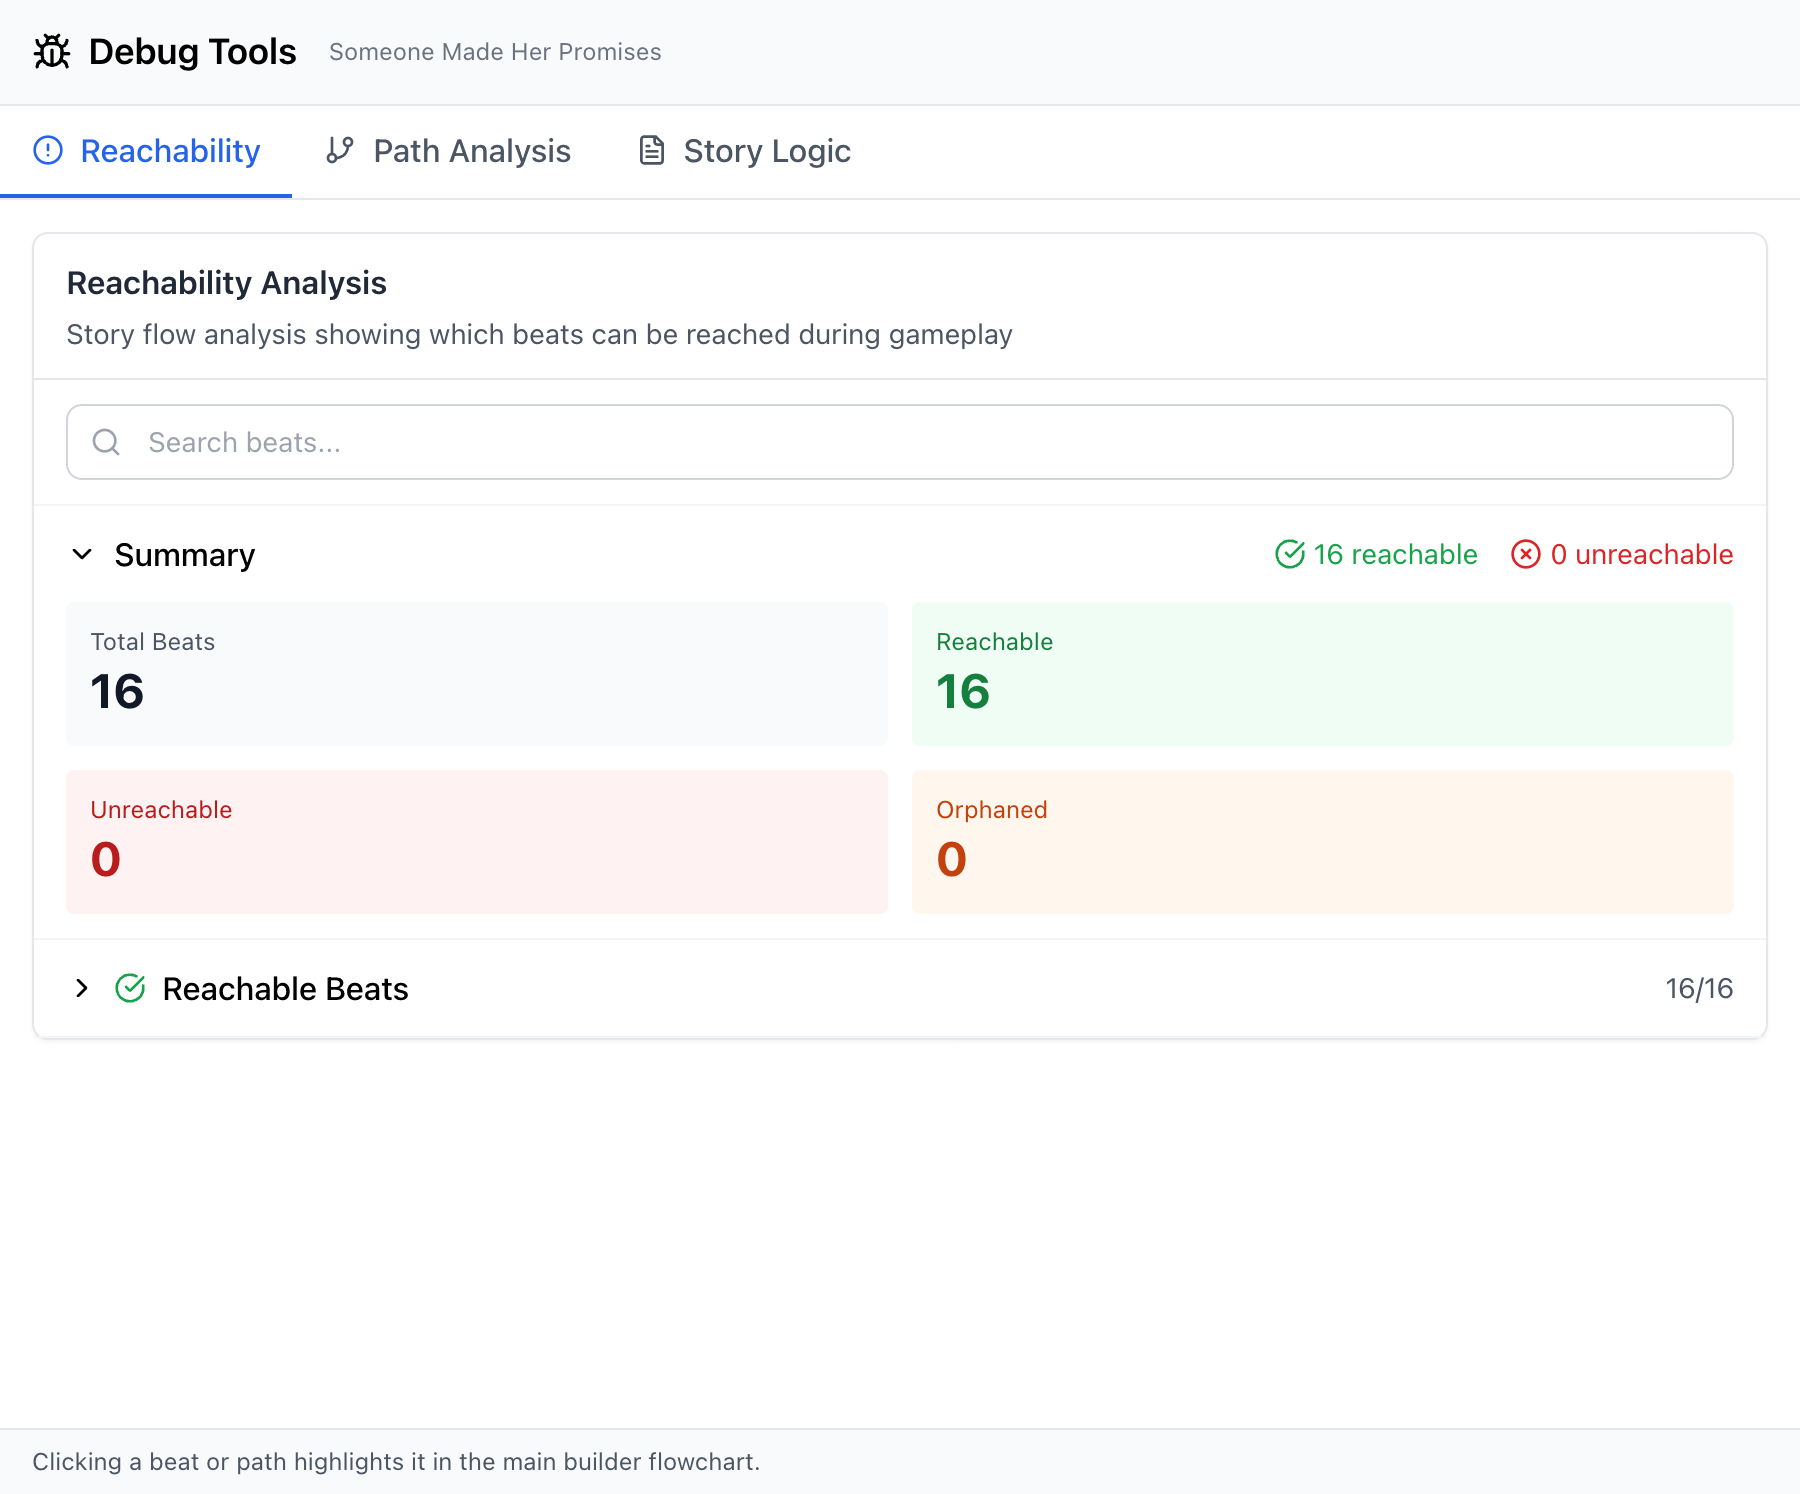
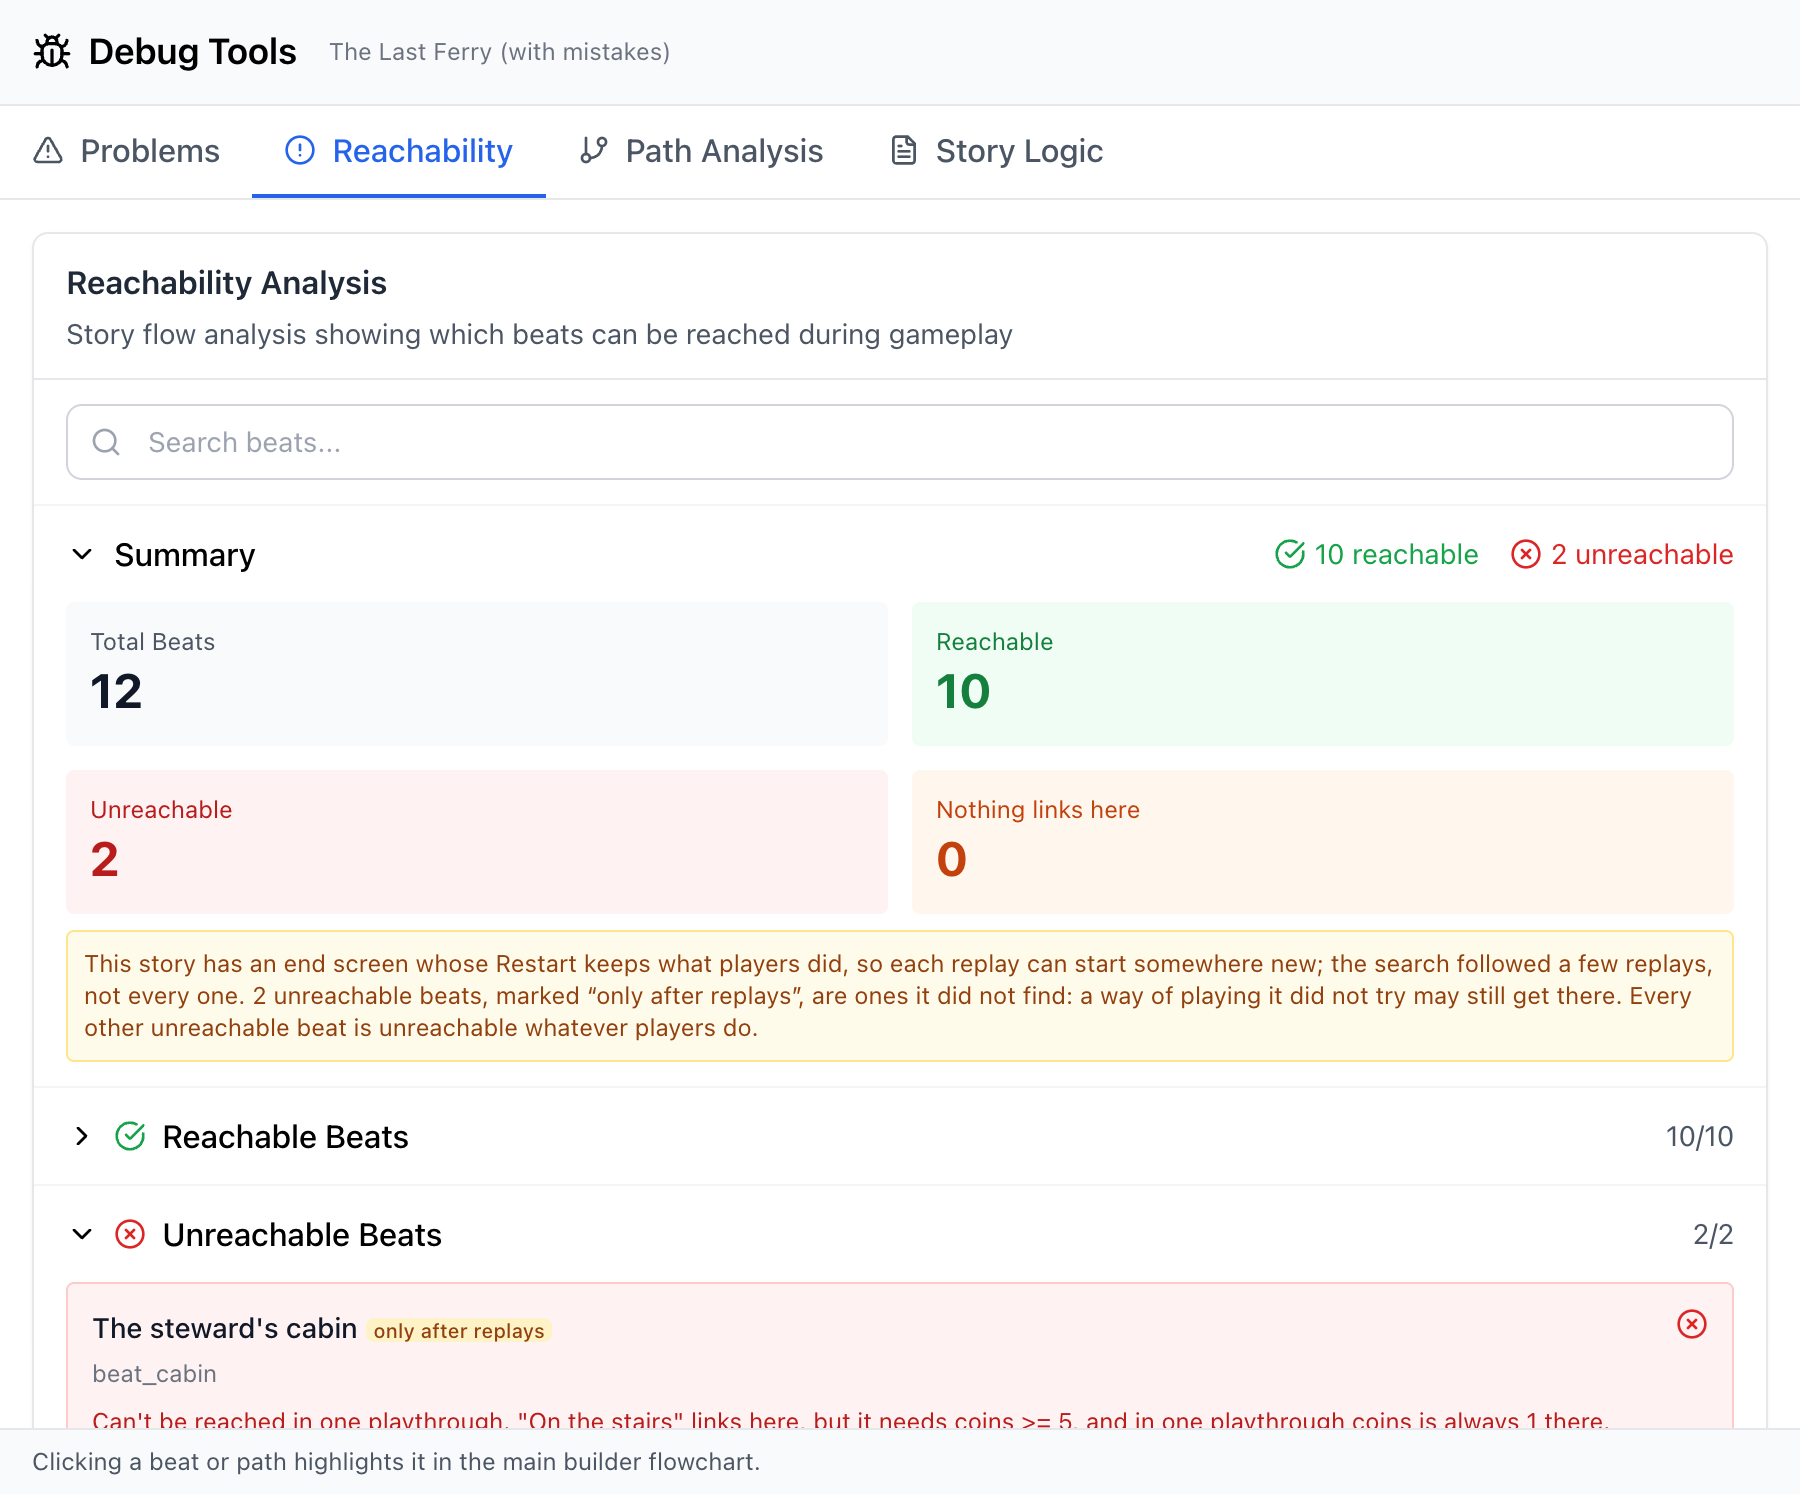
docs: User Guide screenshots for the debug tools, revised against v0.9.155
Retaken: Start as if… presets, Reachability, Path Analysis, Story Logic;
new: the Problems tab. Captions updated, header bumped, the search-limit
section explains the replay note.

Claude-Session: https://claude.ai/code/session_01EaMWVTtgvmkYMRuNpb9Wym

diff --git a/docs/USER_GUIDE.md b/docs/USER_GUIDE.md
@@ -2,7 +2,7 @@
 
 **Your Complete Guide to Building Interactive Narrative Systems**
 
-*Last revised against v0.9.148*
+*Last revised against v0.9.155*
 
 ---
 
@@ -3362,7 +3362,7 @@ Since v0.9.85 the panel also appears for **indoor-only projects** — a venue wi
 When previewing from a beat other than the start, ASAPS Modern intelligently analyzes all paths to that beat and generates **state presets** representing different ways the interactor could have arrived there.
 
 ![Path Presets Menu](images/10-path-presets.png)
-*The path presets menu showing different routes to the current beat*
+*Start as if… for "On the stairs" in The Last Ferry: the states that change what happens there, grouped by which of the beat's own conditions they meet ("With Tomas as the confidant" opens the notebook reply), three per group with Show more.*
 
 **Using Path Presets:**
 
@@ -3487,6 +3487,9 @@ Each entry names the problem and the beat (*Dead end: The cellar*) and says in a
 
 **Problems on beats nobody reaches wait their turn.** A fault on a beat no way of playing reaches yet is shown as a note, with *(No way of playing reaches this beat yet.)*: no player meets it until the beat is linked in. The entry that says why the beat is unreached keeps its place.
 
+![Debug Tools — Problems tab](images/109-debug-problems.png)
+*The Problems tab on a copy of The Last Ferry with three mistakes put in: a misspelled name (an error), a choice that needs more coins than one playthrough gives (a warning, marked "only after replays" because one ending's Restart keeps the coins), and that ending's Restart keeps values (a note).*
+
 When nothing turns up, the tab says **No problems found.** Problems is about structure and state. To check whether what a beat *says* holds for everyone who gets there, use [Check with AI](#check-with-ai) in Story Logic.
 
 <a id="story-warnings"></a>
@@ -3521,6 +3524,8 @@ These are advice only: nothing changes at runtime. The checks explore the same r
 
 Problems, Reachability and Story Logic play your story with a fast search that looks at *situations* (a beat, plus the state that matters from there on) rather than at every whole path. Even so, a very large story can have more ways through than the search can try. When that happens, an amber note at the top says so: *This story is too large to try every way through, and the search stopped at its limit.*
 
+A story of any size gets a note too if an end screen's Restart keeps what players did (its **Reset** is off): each replay can then start from somewhere new, so the search follows a few replays rather than every one, and says so (*the search followed a few replays, not every one*).
+
 That doesn't make the answers guesses. Most unreachable beats are unreachable **for certain**, whatever players do: every link that leads to them has a condition that can never hold (a check of text against a counter, a value nothing sets, an item nothing gives, a range a counter can never reach there). The note says which are which:
 
 - If the search is sure of all of them, the note says *every unreachable beat here is unreachable whatever players do*.
@@ -3532,7 +3537,7 @@ Every other unreachable beat in the list is certain.
 ### Reachability
 
 ![Debug Tools — Reachability tab](images/31-debug-reachability.png)
-*The Reachability tab shows total beats, how many are reachable from start, how many nothing links to, and any warnings detected. Click a beat to highlight it on the main flowchart.*
+*The Reachability tab shows total beats, how many players can reach, how many nothing links to, and each unreachable beat with why. Here the search note says it followed only a few replays of a Restart that keeps values, and the one beat only replays could reach is marked "only after replays". Click a beat to highlight it on the main flowchart.*
 
 Reachability is the long version of the unreachable entries in Problems: every beat, sorted. The summary cards count **Total Beats**, **Reachable**, **Unreachable** and **Nothing links here**. Below them, expand *Reachable Beats*, *Broken Connections*, *Unreachable Beats*, *Nothing links here*, *Warnings* and *Unreachable Condition Branches* to drill into the specifics; the search box filters the beat lists by name.
 
@@ -3571,7 +3576,7 @@ In **Tree** mode the same labels mark where a branch stops. Each choice in the t
 ### Story Logic
 
 ![Debug Tools — Story Logic tab](images/33-debug-story-logic.png)
-*The Story Logic tab: hub beats with how many states players arrive in and what differs, e.g. someone's trust and who plays a role.*
+*The Story Logic tab: the beats players reach in different states, with how many states each. Open one to see what differs, e.g. someone's trust and who plays a role.*
 
 Story Logic looks for places where your text might not hold for every player. It works from the same play-through as the other tabs, so it knows the states players actually arrive in. The summary at the top counts **Different states** (and, with AI on, **AI findings**); click a figure to jump to its section.
 

diff --git a/Progress.md b/Progress.md
@@ -8,7 +8,16 @@ A fix found while taking the User Guide screenshots for v0.9.155.
 ### Fix: the Debug window never finished on a story whose Restart keeps feelings
 - The situation search followed an end screen's Restart every time it led somewhere new. With **Reset** off, a story with feelings (or any total a check reads) starts each replay from a new state, so the search replayed again and again, each step slower as the carried-over state grew: on a copy of The Last Ferry with one ending's Reset turned off, Problems never appeared, and in the web build the main window froze with it (the Debug window shares its thread there). It now follows at most three Replays on one way of playing; cutting one off counts as stopping short, so beats only later replays could reach stay "may be reachable" / "only after replays" rather than certain, and the counter ranges, which follow every Replay, still decide what is certain. That copy now takes 17 ms. Student stories: same beats played and the same findings; group 3's search fell from 170,000 situations to 1,177 (3 s → 0.1 s). None of the templates turn Reset off, which is why the release checks didn't meet it.
 
-**Files modified:** packages/core/src/analysis/StateSimulationAnalyzer.ts; tests/analysis/StateSimulationCoverage.test.ts
+- **The limit note says why it stopped:** a search cut off only by the replay limit now says *This story has an end screen whose Restart keeps what players did, so each replay can start somewhere new; the search followed a few replays, not every one* instead of calling a 12-beat story "too large" (`StateSimulationAnalyzer.searchLimitReason`); the same in "No problems found, but…".
+
+### Smaller fixes found while taking the screenshots
+- **Start as if…** named a role check "a roleHolder condition"; it now reads "With Tomas as the confidant" (`describeGate` names roles and characters, also in Reachability's "Never on offer").
+- **Problems:** the "only after replays" mark sat between a beat's name and ", 1 more beat behind it"; it now follows them.
+
+### User Guide
+- Header now "Last revised against v0.9.155". Screenshots retaken in the QA browser at 2×: 10 (Start as if… on "On the stairs", grouped by the beat's conditions), 31 (Reachability), 32 (Path Analysis Forward), 33 (Story Logic), and a new 109 (Problems, on a copy of The Last Ferry with three mistakes put in). Captions updated; the search-limit section explains the replay note. These show the wording of the fixes above, so they belong with the next release. Not taken: a Check with AI finding card (needs a configured AI provider and a paid check).
+
+**Files modified:** packages/core/src/analysis/StateSimulationAnalyzer.ts, ReachabilityAnalyzer.ts; packages/builder/src/components/debug/SimulationGate.tsx, ProblemsPanel.tsx, ReachabilityReport.tsx, services/PathBasedPresetGenerator.ts; tests/analysis/StateSimulationCoverage.test.ts; docs/USER_GUIDE.md, docs/images/10, 31, 32, 33, 109
 
 ---
 
